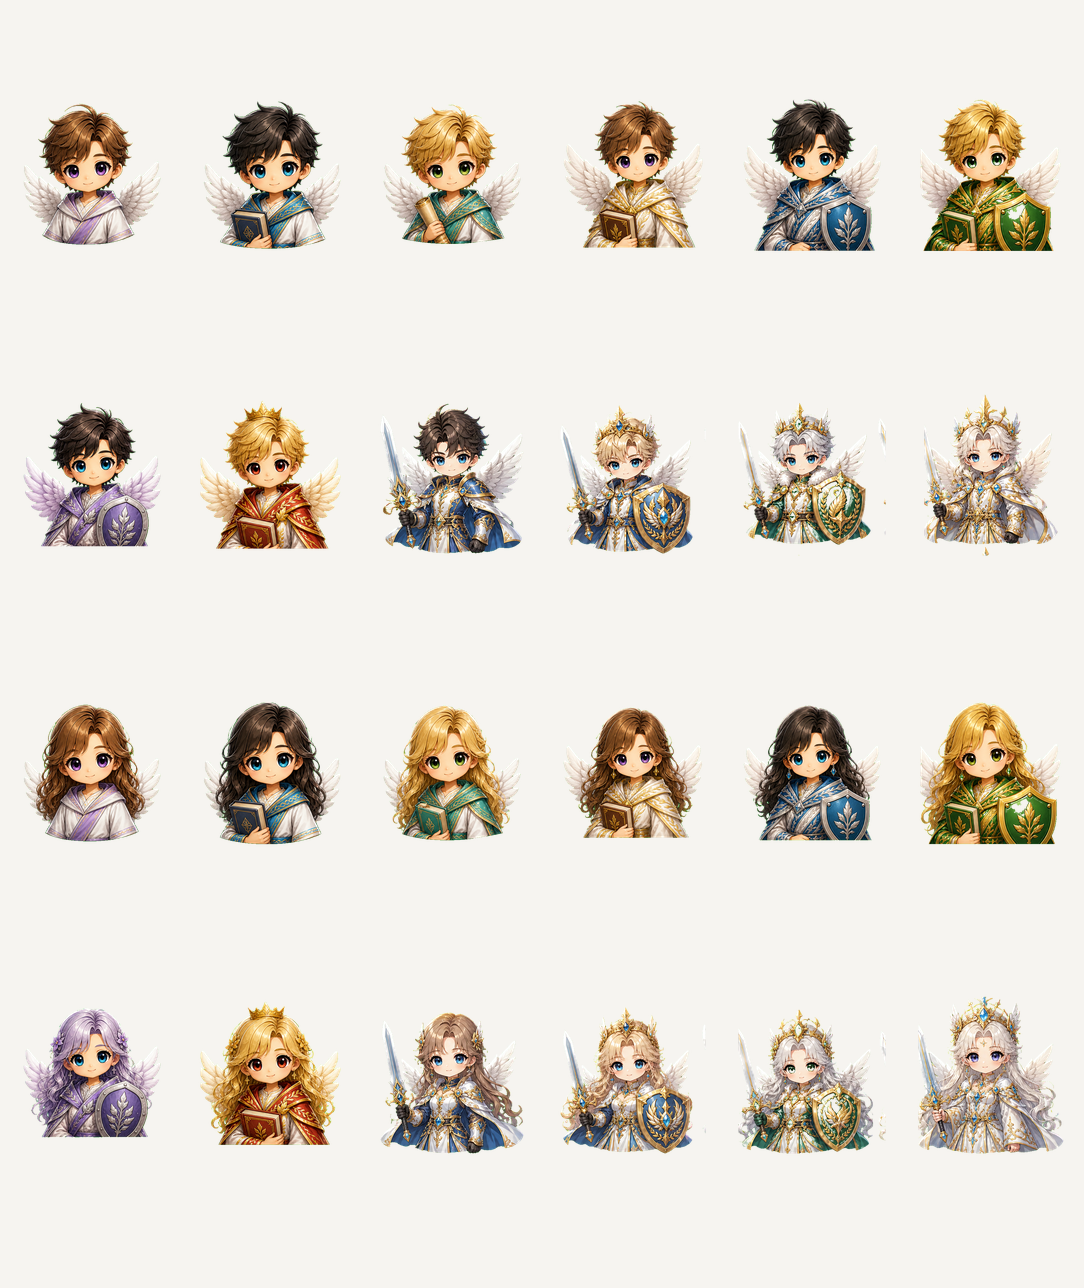
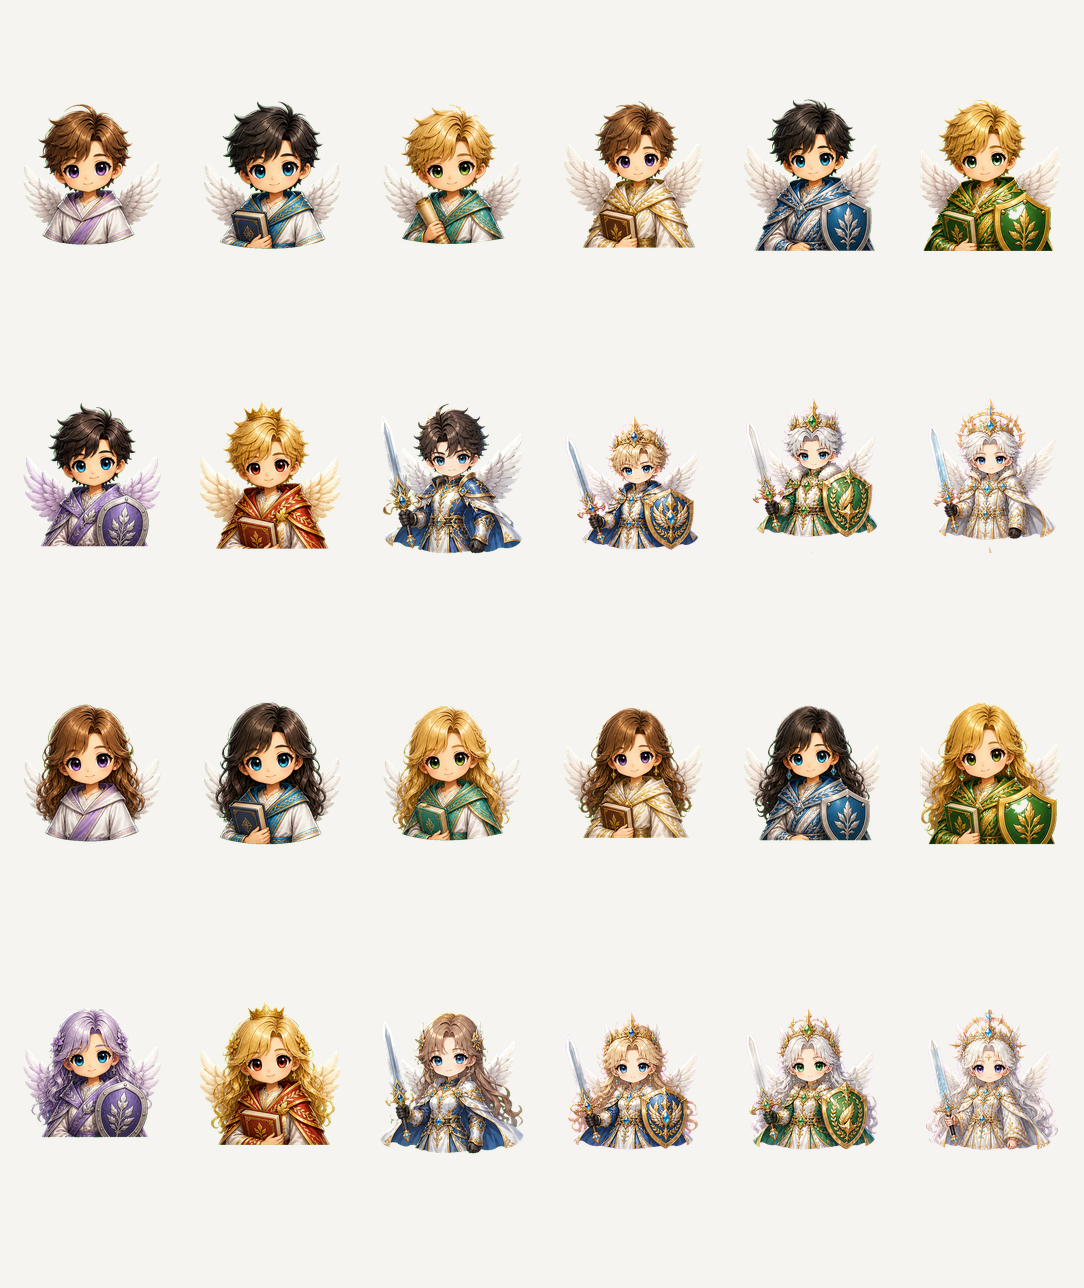
Fix clipped final badge crops

diff --git a/public/badges/preview.html b/public/badges/preview.html
@@ -221,7 +221,7 @@
     </main>
 
     <script>
-      const assetVersion = "20260514-sword-recut";
+      const assetVersion = "20260514-last3-safe-crop";
       const levels = [
         "Người Tập Sự",
         "Người Hầu Sự",
